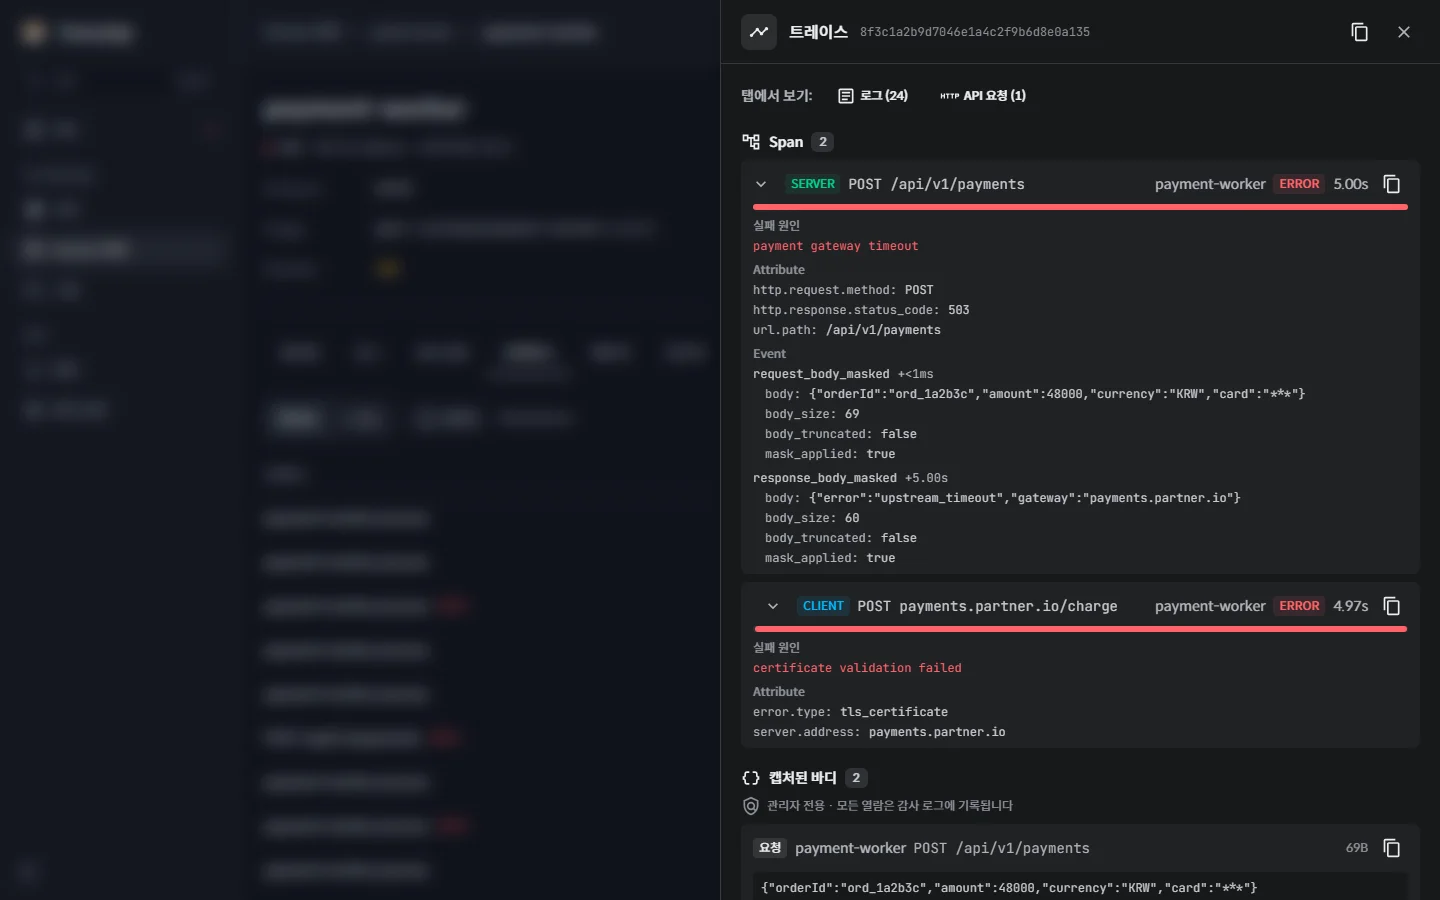
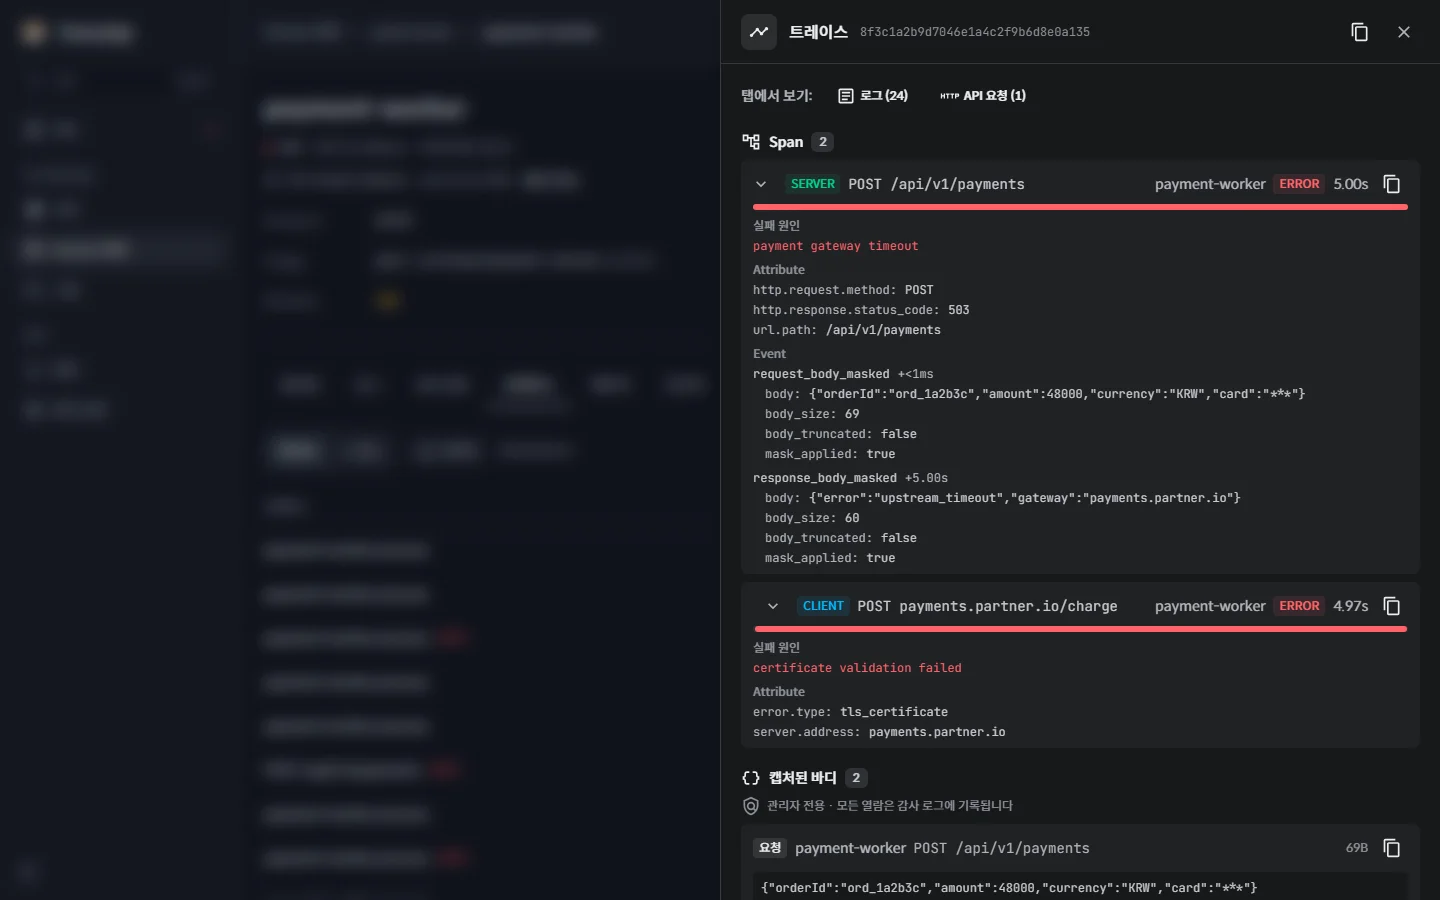
chore: finish the target detail move (target detail 4/4)
- serverPath() builds only server and tab addresses; targets use
  appPath()/monitorPath(). The unused target segment is gone.
- DESIGN.md: crumbs and address rules describe the target pages and
  every legacy redirect.
- Docs: monitoring-setup and uptime-monitors (ko/en) describe the
  server tabs, the app and monitor pages and their actions instead of
  the old per-feature menus; the screenshot script opens the monitor
  page, and the carousel, README hero and Quick Start images are
  regenerated.

diff --git a/web/frontend/src/features/servers/serverPaths.ts b/web/frontend/src/features/servers/serverPaths.ts
@@ -28,11 +28,9 @@ let serversSearch = '';
 export function rememberServersSearch(search: string) { serversSearch = search; }
 export function serversListPath(): string { return `${SERVERS_PATH}${serversSearch}`; }
 
-export function serverPath(serverId: string, capability?: ServerCapability, targetId?: string): string {
-  return [SERVERS_PATH, serverId, capability, capability && targetId]
-    .filter((part): part is string => Boolean(part))
-    .map((part, index) => index === 0 ? part : encodeURIComponent(part))
-    .join('/');
+/** 서버 화면(개요 또는 기능 탭). 대상(앱, 모니터)은 자기 페이지가 있다: `appPath`, `monitorPath`. */
+export function serverPath(serverId: string, capability?: ServerCapability): string {
+  return `${SERVERS_PATH}/${encodeURIComponent(serverId)}${capability ? `/${capability}` : ''}`;
 }
 
 /** 직접 연결한 앱 페이지의 탭(DESIGN.md §4.7 대상 상세). 키는 Docker 서비스 상세(`?tab=`)와 같다. */

diff --git a/web/frontend/DESIGN.md b/web/frontend/DESIGN.md
@@ -521,9 +521,9 @@ useBreadcrumb(monitor ? [{ label: monitor.name }] : []);
 
 **대상 페이지의 목록 복귀 링크** (2026-11-21, 그전의 "서버 탭 안의 대상 상세" 예외를 대신한다). 앱과 업타임 모니터는 자기 페이지가 있다(§4.7 대상 상세의 틀). 목록(서버의 업타임·로그·API 요청·메트릭 탭, 전체 로그)에서 연 대상은 그 목록으로 돌아가는 링크(`모니터 목록`, `앱 목록`, `전체 로그`)를 둔다. 링크는 목록에서 넘겨받은 주소(`state.returnTo`)로 돌아가므로 검색어, 필터, 보기 방식이 유지된다(`listBack`). 넓은 화면에서는 상단 바(`AppHeader`)의 오른쪽 조작 자리에 두어 본문의 높이를 쓰지 않고, 좁은 화면에서는 머리말 첫 줄의 복귀 링크가 된다. 크럼(`서버 › edge-host-01 › Storefront`)의 서버 이름은 서버의 개요로 가고 목록의 상태를 모르므로 목적지가 다르다. 모니터는 목록에서 열지 않았어도 그 서버의 업타임 목록으로 돌아가고, 앱은 목록에서 열었을 때만 둔다(앱은 여러 탭에 걸쳐 있다).
 
-**탭은 크럼이 아니다.** Docker 서비스 상세의 `?tab=logs` 같은 하위 뷰는 위치가 아니라 같은 위치의 다른 단면이므로 trail에 넣지 않는다. 서버 상세의 탭은 경로에 있지만(`/servers/web-01/uptime`, §4.6) 같은 이유로 크럼에 넣지 않는다: 크럼은 `서버 › web-01`이고, 대상을 고른 주소(`/servers/web-01/uptime/<id>`)에서만 `서버 › web-01 › Storefront`가 된다.
+**탭은 크럼이 아니다.** Docker 서비스 상세의 `?tab=logs` 같은 하위 뷰는 위치가 아니라 같은 위치의 다른 단면이므로 trail에 넣지 않는다. 서버 상세의 탭은 경로에 있지만(`/servers/web-01/uptime`, §4.6) 같은 이유로 크럼에 넣지 않는다: 크럼은 `서버 › web-01`이고, 대상 페이지(`/servers/web-01/monitors/<id>`, `/servers/web-01/apps/<id>`)에서 `서버 › web-01 › Storefront`가 된다.
 
-**서버 화면의 주소는 `serverPath()`로만 만든다** (2026-11-18, [`features/servers/serverPaths.ts`](src/features/servers/serverPaths.ts)). `/servers/:serverId`(개요 탭), `/servers/:serverId/:capability`, `/servers/:serverId/:capability/:targetId`. 컴포넌트마다 문자열을 이어 붙이면 인코딩과 순서가 어긋난다. 옛 메뉴의 주소는 서버 주소로 넘어간다: `/uptime`, `/infrastructure`, `/api`, `/metrics`, `/services`는 `/servers`로, `/uptime/<id>` 같은 대상 주소는 대상을 조회해 서버를 알아낸 뒤 그 탭으로 간다(`LegacyTargetRedirect`, 쿼리 보존). 이미 발송된 알림의 링크가 이 길로 들어온다.
+**서버 화면의 주소는 `serverPath()`로만 만든다** (2026-11-18, [`features/servers/serverPaths.ts`](src/features/servers/serverPaths.ts)). `/servers/:serverId`(개요 탭)와 `/servers/:serverId/:capability`(기능 탭)는 `serverPath()`, 대상 페이지는 `appPath()`(`/servers/:serverId/apps/:appId?tab=`)와 `monitorPath()`(`/servers/:serverId/monitors/:monitorId`)다(2026-11-21). 컴포넌트마다 문자열을 이어 붙이면 인코딩과 순서가 어긋난다. 옛 주소는 모두 넘어간다(쿼리·해시 보존, 기록 교체): 옛 메뉴의 `/uptime`, `/infrastructure`, `/api`, `/metrics`, `/services`는 `/servers`로, `/uptime/<id>` 같은 대상 주소는 대상을 조회해 서버를 알아낸 뒤 그 대상 페이지로(`LegacyTargetRedirect`), 서버 탭 안의 옛 대상 주소 `/servers/:s/{uptime,logs,api,metrics}/:id`는 대상 페이지로(`LegacyServerMonitorRedirect`, `LegacyServerAppRedirect`), `/servers/:s/infrastructure/:id`는 그 탭으로(`LegacyServerTabRedirect`) 간다. 이미 발송된 알림과 장애 이력의 링크가 이 길로 들어온다.
 
 **전체 로그(`/logs`)는 사이드바에 없는 서버 섹션의 화면이다** (2026-11-18). `navSections.ts`에서 서버의 `aliases`이므로 사이드바의 `서버`가 현재 위치이고 크럼은 `서버 › 전체 로그`다. 서버 목록 머리말의 `전체 로그`(갱신 시각 옆, 서버가 없거나 목록을 불러오지 못한 화면에도 있다), 서버 로그 탭의 `모든 서버의 로그`, 개요, 명령 팔레트, 모바일 더보기에서 들어간다. 사이드바에 없는 화면이므로 h1을 숨기지 않는다(아래 규칙의 대상이 아니다).
 

diff --git a/docs/guide/monitoring-setup.md b/docs/guide/monitoring-setup.md
@@ -39,9 +39,8 @@ Docker 밖의 앱과 서버는 [OpenTelemetry로 직접 연결](#direct-otel)하
 아직 선택하지 않은 기능을 추가하세요. ID·키·그룹·수집 이력은 유지되고, 새 적용 명령이 발급됩니다.
 이 명령을 해당 서버에서 실행하면 선택한 기능이 Docker 환경 전체에 적용됩니다.
 
-로그·API 요청·메트릭·인프라 화면의 연결 버튼(**로그 연결**, **API 연결** 등)은 직접 연결만 다룹니다.
-등록된 직접 연결 대상을 이어 쓰거나 새 대상을 연결할 수 있습니다. 이미 설정된 대상을 고르면 수신 기록을
-확인한 뒤 해당 데이터 화면으로 이동합니다.
+서버의 로그·API 요청·메트릭·인프라 탭에 있는 연결 버튼(**로그 연결**, **API 연결** 등)은 직접 연결만 다룹니다.
+새 앱을 연결하거나, 이 서버에 이미 연결한 앱에 데이터를 더할 수 있습니다. 연결을 마치면 그 앱의 페이지로 이동합니다.
 
 ## OpenTelemetry로 직접 연결 {#direct-otel}
 
@@ -50,12 +49,14 @@ Docker 밖에서 실행되는 앱은 로그·트레이스·메트릭을 OpenTele
 
 | 데이터 | 대시보드에서 여는 경로 |
 | --- | --- |
-| 로그 | **로그 → 로그 연결 → OpenTelemetry로 직접 연결** |
-| API 요청·트레이스 | **API 요청 → API 연결 → OpenTelemetry로 직접 연결** |
-| 앱 메트릭 | **메트릭 → 메트릭 연결 → OpenTelemetry로 직접 연결** |
-| 서버 자원 | **인프라 → 인프라 연결** |
+| 로그 | **서버** → 서버 → **로그** 탭 → **로그 연결** |
+| API 요청·트레이스 | **서버** → 서버 → **API 요청** 탭 → **API 연결** |
+| 앱 메트릭 | **서버** → 서버 → **메트릭** 탭 → **메트릭 연결** |
+| 서버 자원 | **서버** → 서버 → **인프라** 탭 → **인프라 연결** |
 
-직접 연결 화면에서 서비스를 추가하면 데이터 전송 주소와 API Key를 확인할 수 있습니다.
+이미 연결한 앱에 다른 데이터를 더하려면 그 앱의 페이지에서 **연결 전** 탭을 열거나 연결 줄의 **데이터 추가**를 누르세요.
+
+앱을 추가하면 데이터 전송 주소와 API Key를 확인할 수 있습니다.
 OpenTelemetry를 처음 설정한다면 Java·Node.js·Go 안내에 따라 SDK와 exporter를 연결하세요.
 환경변수만 추가해서는 데이터가 전송되지 않습니다. 직접 OTLP 로그를 보내려면 로깅 라이브러리의
 OTel bridge나 appender도 필요합니다.
@@ -69,7 +70,7 @@ OTel bridge나 appender도 필요합니다.
 
 ## 메트릭 탐색하기
 
-**메트릭**에서 서비스를 열면 메트릭을 이름순으로 12개씩 볼 수 있습니다. 더 보려면 **메트릭 12개 더 보기**를 누르세요.
+서버의 **메트릭** 탭에서 앱을 열면 앱 페이지의 **메트릭** 탭에서 메트릭을 이름순으로 12개씩 볼 수 있습니다. 더 보려면 **메트릭 12개 더 보기**를 누르세요.
 Docker Collector가 수집한 메트릭은 해당 **Docker 환경**의 서비스 상세에서 확인합니다.
 
 메트릭 제목을 눌러 단독 보기를 열면 다음 조건을 조절할 수 있습니다.

diff --git a/docs/en/guide/monitoring-setup.md b/docs/en/guide/monitoring-setup.md
@@ -43,10 +43,9 @@ that is not selected yet. The environment keeps its ID, key, group assignment, a
 EveryUp issues a new apply command; run it on the target server to enable the capability across that
 Docker environment.
 
-The connect buttons on the **로그** (Logs), **API 요청** (API requests), **메트릭** (Metrics), and **인프라**
-(Infrastructure) pages, such as **로그 연결** (Connect logs), handle direct connections only. Reuse a
-registered direct target or connect a new one. Choosing a configured target shows its receipt history
-before opening the corresponding data page.
+The connect buttons on a server's **로그** (Logs), **API 요청** (API requests), **메트릭** (Metrics), and
+**인프라** (Infrastructure) tabs, such as **로그 연결** (Connect logs), handle direct connections only. Connect a
+new app or add data to an app already connected to that server. When you finish, EveryUp opens the app's page.
 
 ## Connecting OpenTelemetry directly {#direct-otel}
 
@@ -55,10 +54,13 @@ resources through a standard OpenTelemetry Collector. Choose a connection path f
 
 | Data | Dashboard path |
 | --- | --- |
-| Logs | **로그** (Logs) → **로그 연결** (Connect logs) → **OpenTelemetry로 직접 연결** (Connect directly through OpenTelemetry) |
-| API requests and traces | **API 요청** (API requests) → **API 연결** (Connect API) → **OpenTelemetry로 직접 연결** |
-| App metrics | **메트릭** (Metrics) → **메트릭 연결** (Connect metrics) → **OpenTelemetry로 직접 연결** |
-| Server resources | **인프라** (Infrastructure) → **인프라 연결** (Connect infrastructure) |
+| Logs | **서버** (Servers) → a server → **로그** (Logs) tab → **로그 연결** (Connect logs) |
+| API requests and traces | **서버** (Servers) → a server → **API 요청** (API requests) tab → **API 연결** (Connect API) |
+| App metrics | **서버** (Servers) → a server → **메트릭** (Metrics) tab → **메트릭 연결** (Connect metrics) |
+| Server resources | **서버** (Servers) → a server → **인프라** (Infrastructure) tab → **인프라 연결** (Connect infrastructure) |
+
+To add another kind of data to an app you already connected, open the app's page and use a **연결 전**
+(Not connected) tab or **데이터 추가** (Add data) on its connection line.
 
 Adding a service shows its export address and API Key. If you are new to OpenTelemetry, follow the
 Java, Node.js, or Go guidance to connect the SDK and exporters. Environment variables alone do not
@@ -74,7 +76,7 @@ interval, and check **데이터 수신 확인** for receipt.
 
 ## Explore metrics
 
-Open a service in **메트릭** (Metrics) to view metrics alphabetically, 12 panels at a time. Click
+Open an app from a server's **메트릭** (Metrics) tab to view its metrics on the app page's **메트릭** tab, alphabetically, 12 panels at a time. Click
 **메트릭 12개 더 보기** (Show 12 more metrics) for more. Metrics collected by a Docker Collector
 stay in the service details of that **Docker environment**.
 

diff --git a/docs/en/guide/uptime-monitors.md b/docs/en/guide/uptime-monitors.md
@@ -7,7 +7,7 @@ to add them again as uptime monitors.
 
 ## Add a monitor
 
-On the **업타임** (Uptime) screen, click **추가** (Add), fill in the fields below, and click **추가** (Add).
+Open a server from **서버** (Servers), click **모니터 추가** (Add monitor) on its **업타임** (Uptime) tab, fill in the fields below, and click **추가** (Add).
 
 | Field | Description |
 | --- | --- |
@@ -29,7 +29,7 @@ services with the [Docker Collector](./quickstart#docker) instead.
 
 ## Status and management
 
-The **업타임** (Uptime) screen shows only the uptime monitors you add there. Each target shows its
+A server's **업타임** (Uptime) tab lists the uptime monitors added to that server, even when there is one. Each target shows its
 HTTP or TCP method and check address. View Docker Collector response checks and container state in
 **Docker 환경** (Docker environments).
 
@@ -37,7 +37,7 @@ Counts for **장애** (down), **정상** (healthy), **확인 대기** (pending),
 at the top. Click a count to filter by that state. Compare monitor names, check addresses, 24-hour
 uptime, and average response times in the list.
 
-The list and detail screens refresh automatically every **30 seconds** by default. Check the last
+The list and the monitor page refresh automatically every **30 seconds** by default. Check the last
 successful refresh time, turn automatic refresh off, or click **새로고침** (Refresh) to refresh manually.
 Automatic requests pause in hidden browser tabs and resume with a refresh when the tab becomes visible.
 If a refresh fails, the screen keeps previously loaded data and labels it as prior information.
@@ -47,11 +47,12 @@ Hover over the check strip, or focus it and use the arrow keys, to inspect an ex
 the full message. An ongoing outage shows its duration below the status; hover over or focus the
 duration to inspect its start time. Click the target name for response trends and 90-day history.
 
-Use **일시정지** (Pause) to stop checks and **재개** (Resume) to restart them. Use **수정** (Edit) or
-**삭제** (Delete) on the detail screen to manage the monitor.
+Use **일시정지** (Pause) to stop checks and **재개** (Resume) to restart them. On the monitor's page, use
+**수정** (Edit) on the connection line, and the more (⋮) menu for **다른 서버로 옮기기** (Move to another server)
+or **삭제** (Delete).
 
-The detail screen's **응답 시간** (Response time) chart defaults to the last **6 hours**. Select
-**1H**, **6H**, or **24H** for averages in 2-, 5-, or 20-minute buckets. Response times average
+The monitor page's **응답 시간** (Response time) chart defaults to the last **6 hours**. Select
+**1h**, **6h**, or **24h** at the right of the page header for averages in 2-, 5-, or 20-minute buckets. Response times average
 successful checks only. The summary shows the selected period's average, total checks, and failed checks.
 
 Hover over the chart, or focus it and use the left and right arrow keys, to inspect a bucket's
